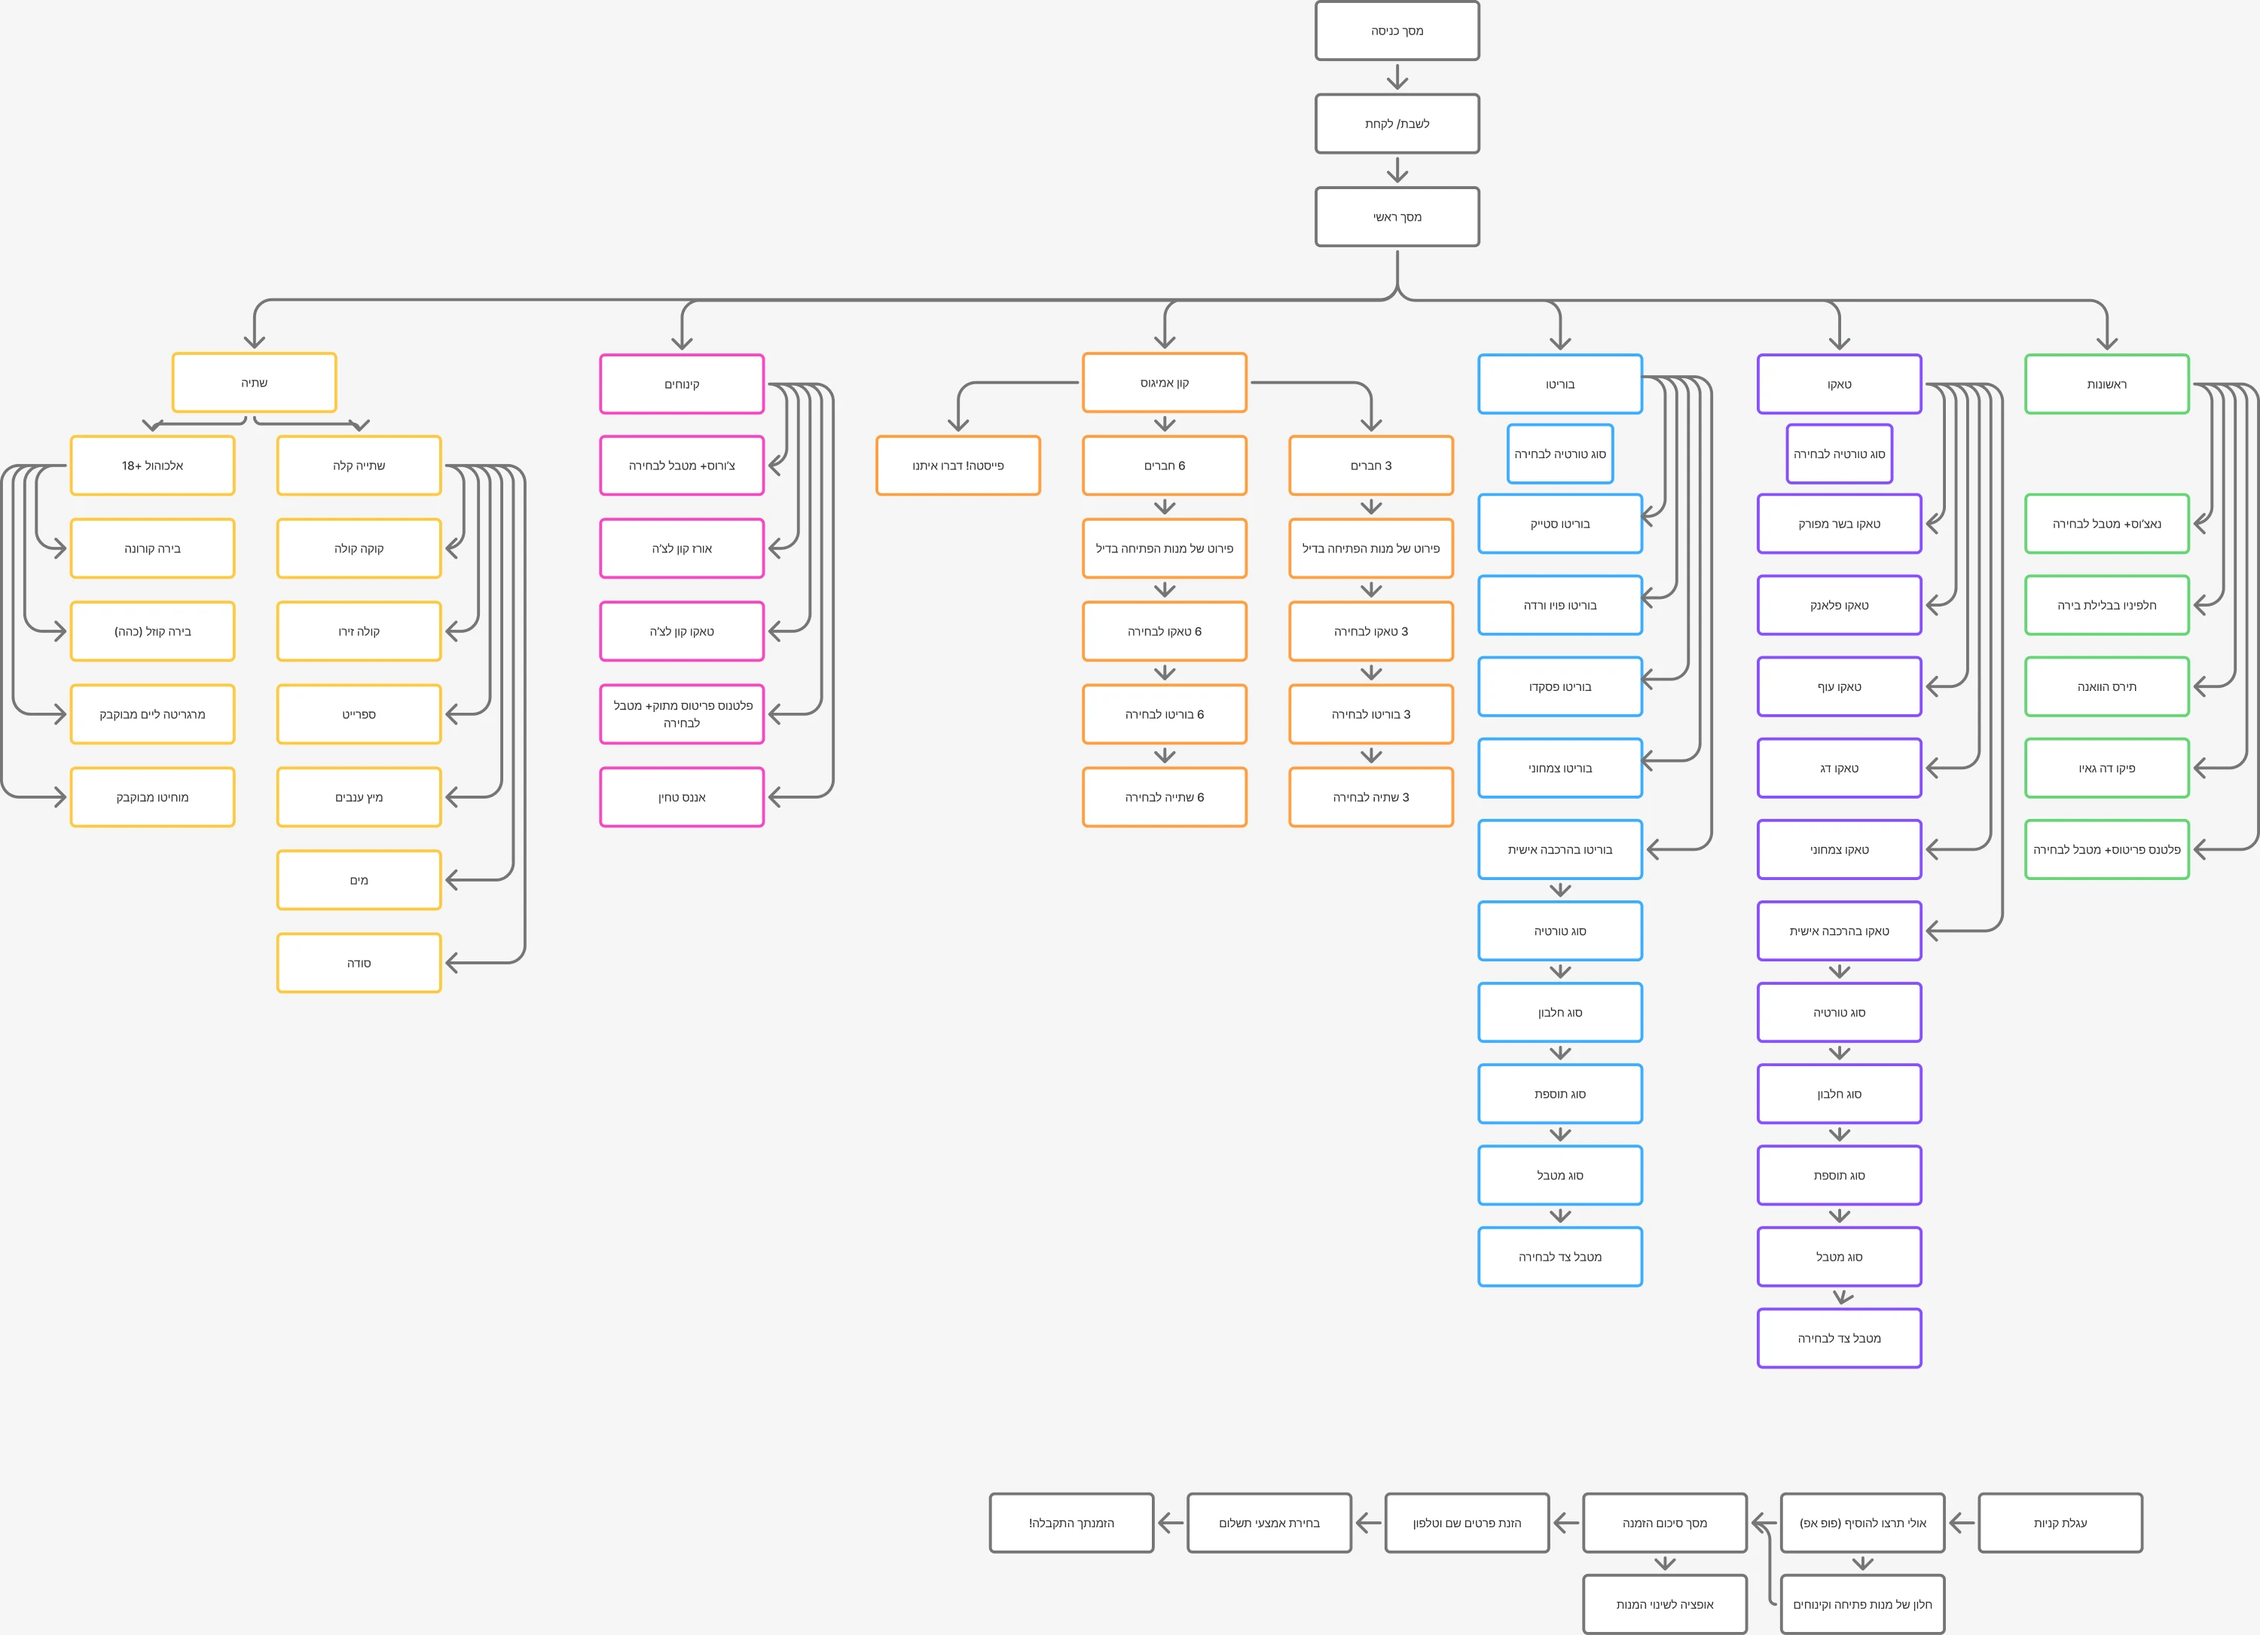
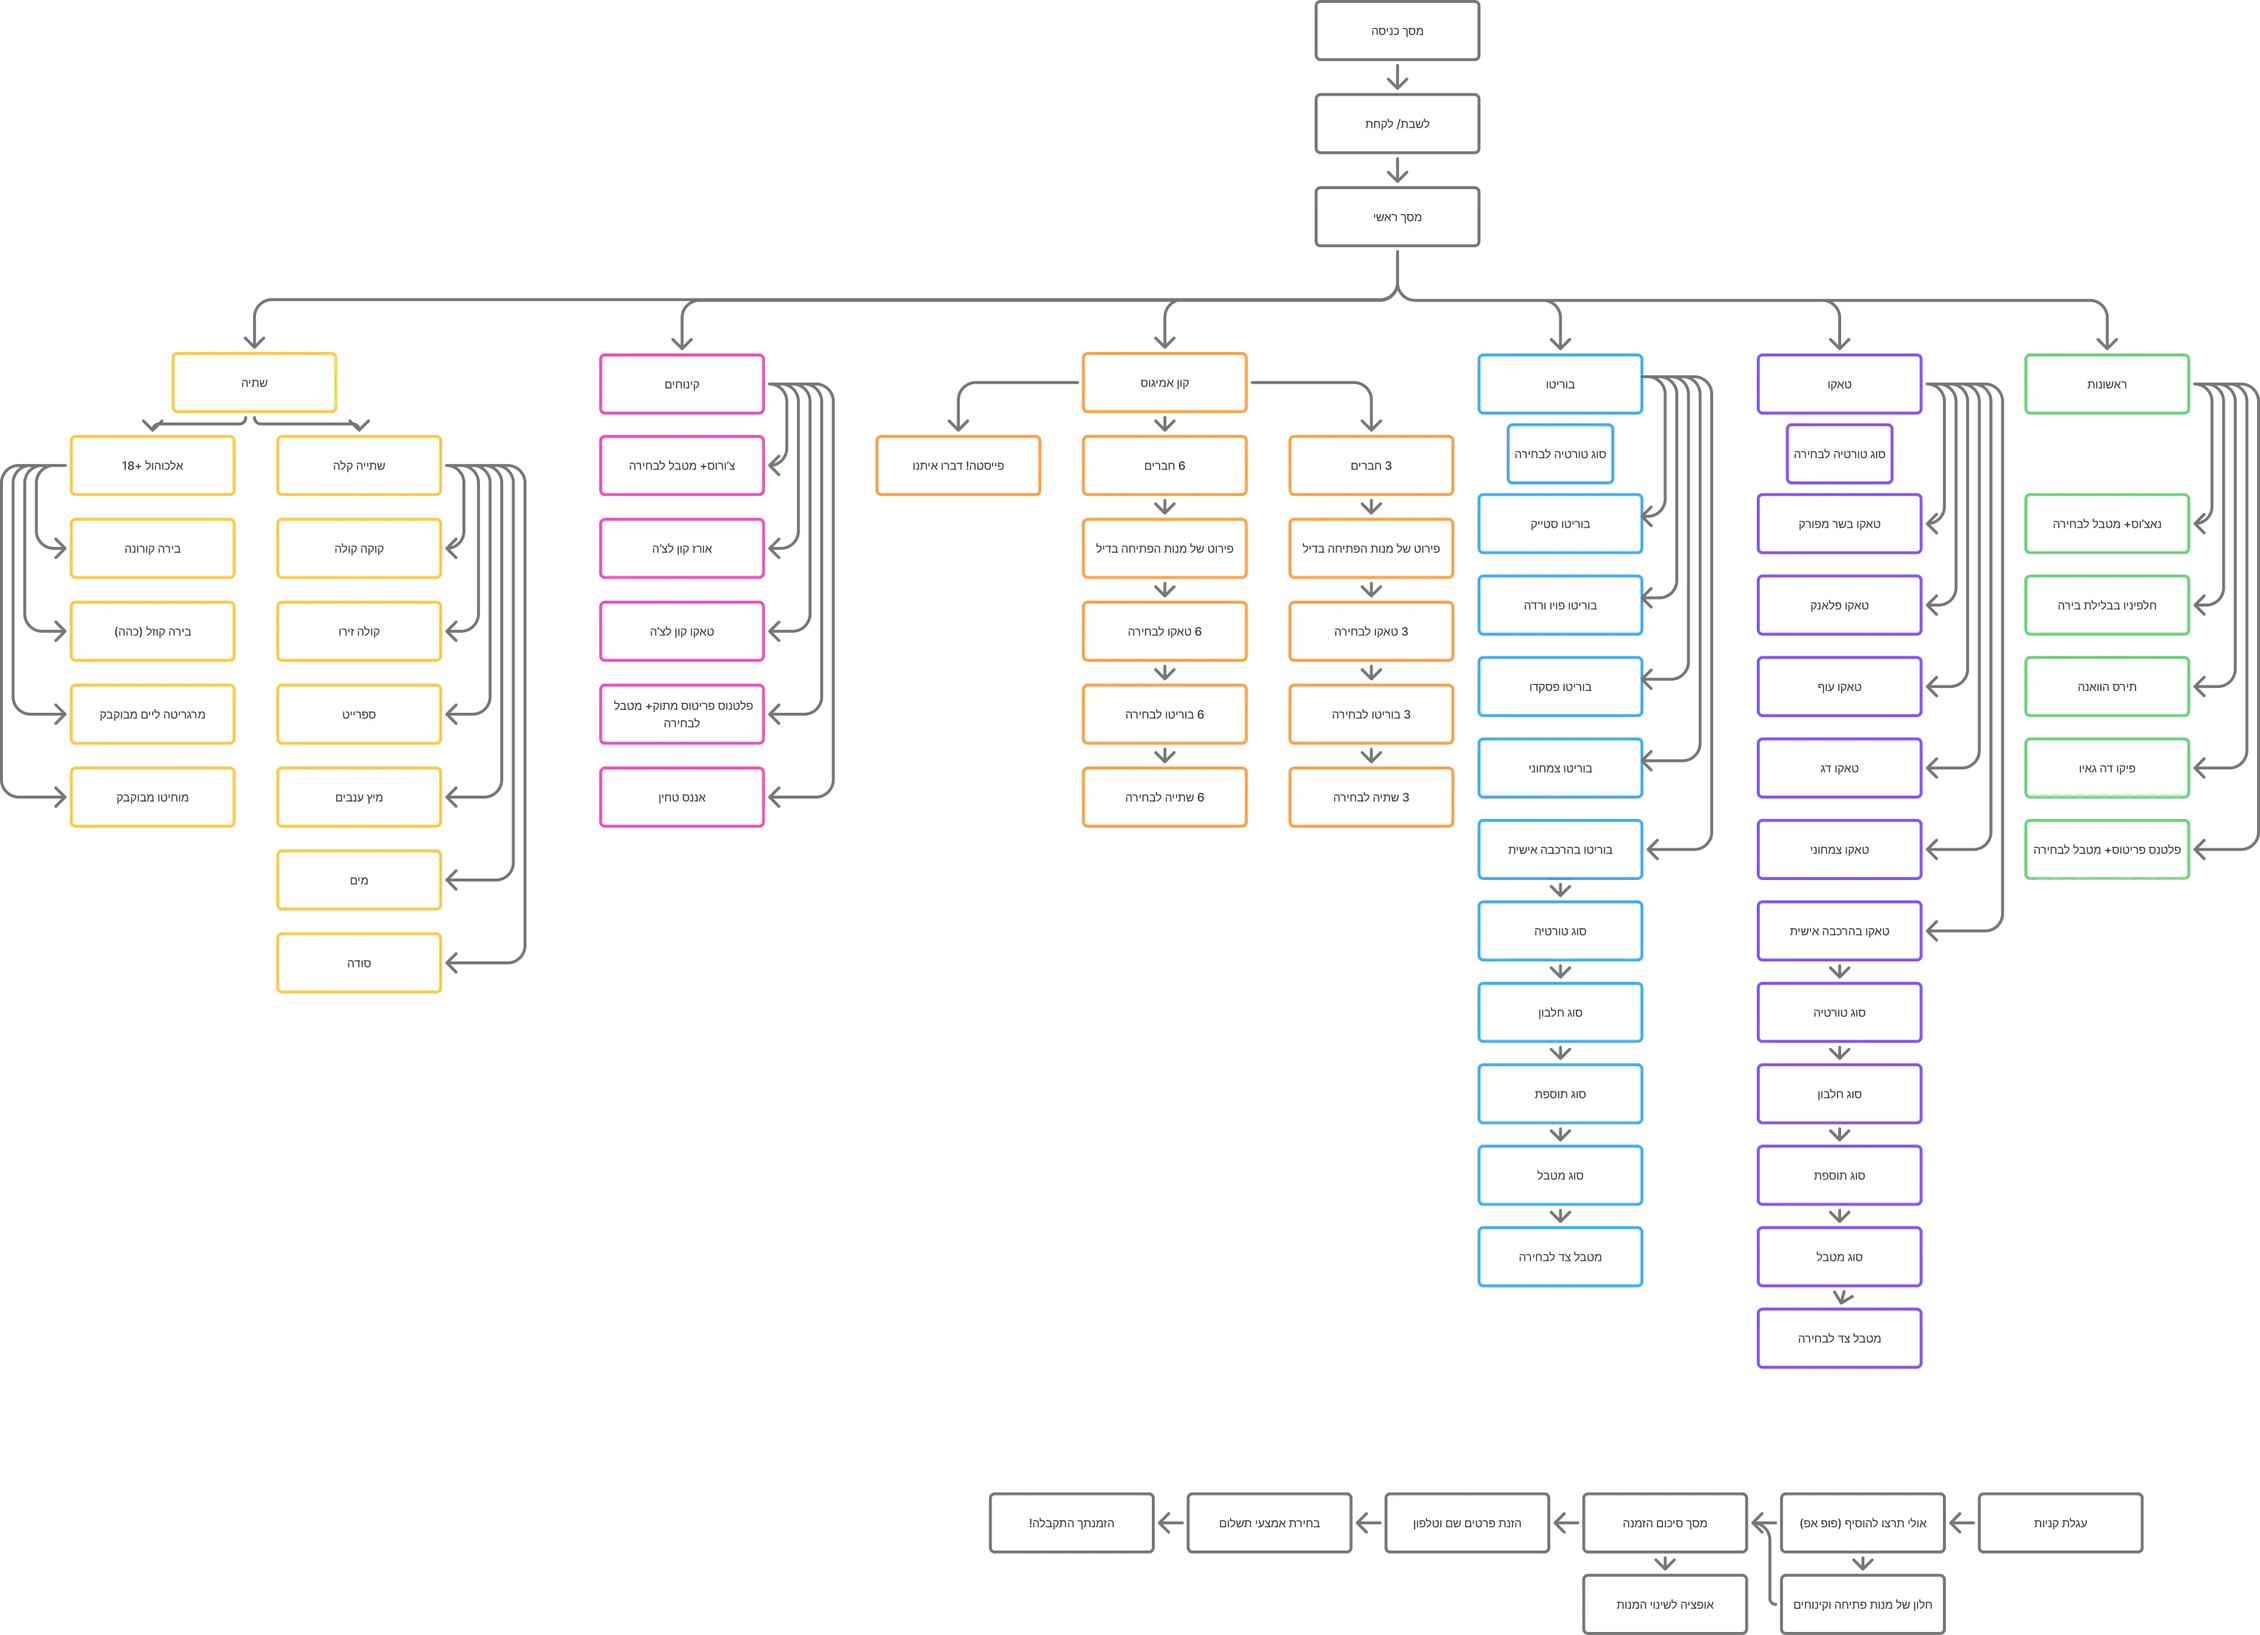
Chido: transparent backgrounds for the IA and scenario diagrams

diff --git a/work-chido.html b/work-chido.html
@@ -116,7 +116,7 @@
 
     <div class="case-compare-breakout">
       <div style="max-width:1000px;width:100%;padding:0 40px;overflow-x:auto;">
-        <img src="work-chido-ia.webp" alt="Chido kiosk information architecture: from the welcome screen and dine in or take away to six menu categories, the custom build steps, and the checkout flow" loading="lazy" style="min-width:900px;width:100%;height:auto;border-radius:12px;">
+        <img src="work-chido-ia.webp?v=2" alt="Chido kiosk information architecture: from the welcome screen and dine in or take away to six menu categories, the custom build steps, and the checkout flow" loading="lazy" style="min-width:900px;width:100%;height:auto;border-radius:12px;">
       </div>
     </div>
 
@@ -124,7 +124,7 @@
       <h2><svg class="h2-icon" viewBox="0 0 24 24" width="24" height="24" fill="none" xmlns="http://www.w3.org/2000/svg"><circle cx="12" cy="12" r="10" fill="#C9C2ED" stroke="#141414" stroke-width="1.5"/><path d="M12 17c2.5-2.6 4-4.7 4-6.7A4 4 0 0 0 8 10.3c0 2 1.5 4.1 4 6.7Z" stroke="#141414" stroke-width="1.5" stroke-linejoin="round"/><circle cx="12" cy="10.2" r="1.3" stroke="#141414" stroke-width="1.3"/></svg>User Scenario: Building a Custom Taco</h2>
       <p>To test the longest path through the kiosk, I wrote out a scenario for a guest who builds their own taco. It starts with a tap to order, then take away, taco, and custom taco, followed by five small choices: tortilla, protein, topping, sauce and side dip. The cart then offers a pop up with an extra, in this case nachos, before the order summary, name and phone, payment, and the confirmation.</p>
       <figure style="margin:32px 0 0;">
-        <img src="work-chido-scenario.webp" alt="User scenario flow for building a custom taco, from the order button through the build steps, cart, upsell pop up, order summary, payment, and confirmation" loading="lazy" style="width:100%;height:auto;border-radius:12px;box-shadow:0 12px 24px -14px rgba(20,20,20,0.22);">
+        <img src="work-chido-scenario.webp?v=2" alt="User scenario flow for building a custom taco, from the order button through the build steps, cart, upsell pop up, order summary, payment, and confirmation" loading="lazy" style="width:100%;height:auto;">
       </figure>
     </div>
 
